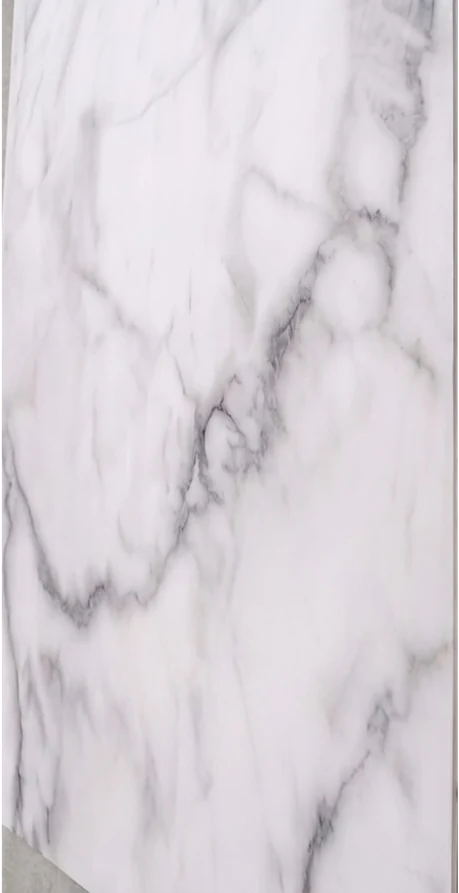
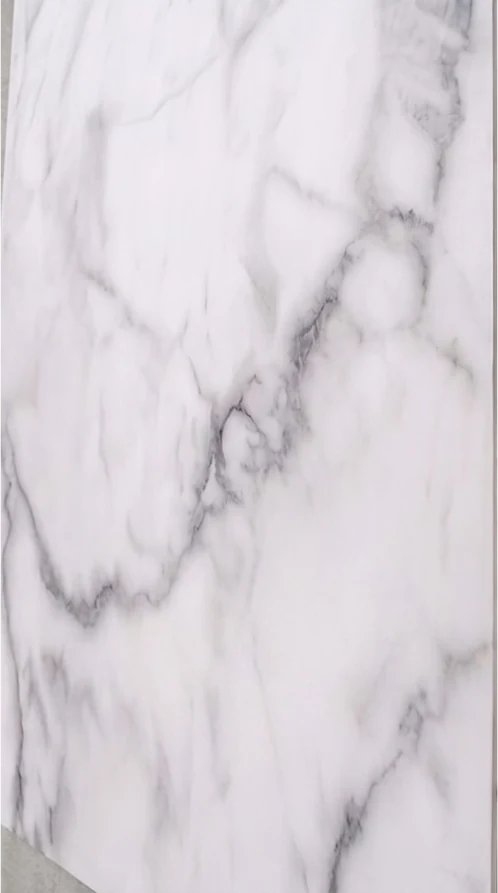
板材加寬蓋滿殘留縫隙：左緣與右下不再露出補牆
拉正後的矩形(785px)比原梯形外框(856px)窄，貼合後左緣與右下角會露出
底下的混凝土補牆。將大理石橫向拉伸 9% 加寬至 856px(紋理無直線，拉伸不可見)，
覆蓋原梯形+補牆全區(x:946..1802)。

diff --git a/index.html b/index.html
@@ -452,7 +452,7 @@ footer{background:#0f0c09;color:rgba(255,255,255,.6);padding:64px 0 30px}
   transition:transform .5s cubic-bezier(.22,.61,.36,1)}
 .tw-plate{position:absolute;inset:0;background:url('img/tech/plate.webp') center/100% 100% no-repeat}
 /* 板材：拉正後的正矩形，貼回原透視場景中的原位；整片平行位移貼合，不旋轉 */
-.tw-panel{position:absolute;left:36.56%;top:0;width:28.67%;height:100%;
+.tw-panel{position:absolute;left:34.38%;top:0;width:31.10%;height:100%;
   background:url('img/tech/panel.webp') center/100% 100% no-repeat;
   will-change:transform,filter;backface-visibility:hidden;
   filter:drop-shadow(-8px 3px 14px rgba(0,0,0,.38))}
